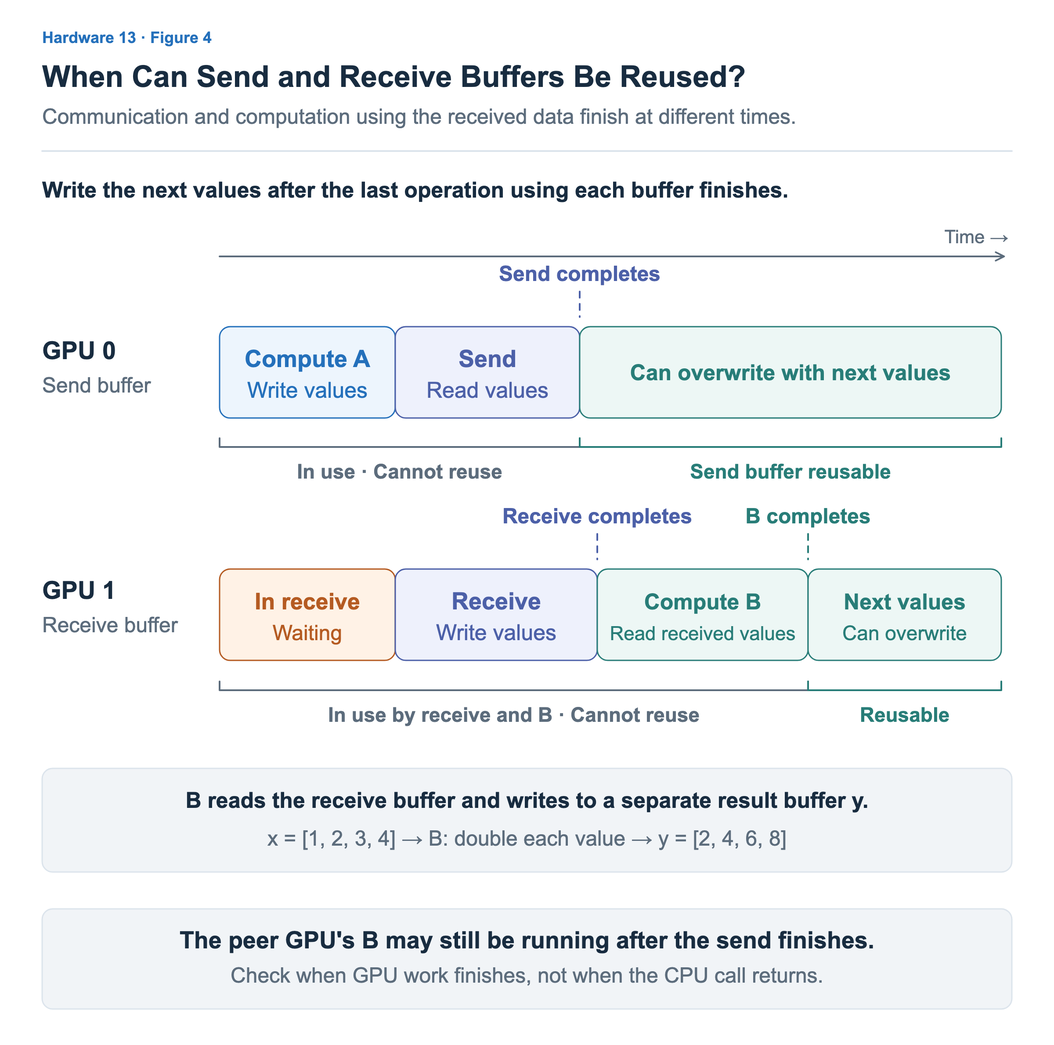
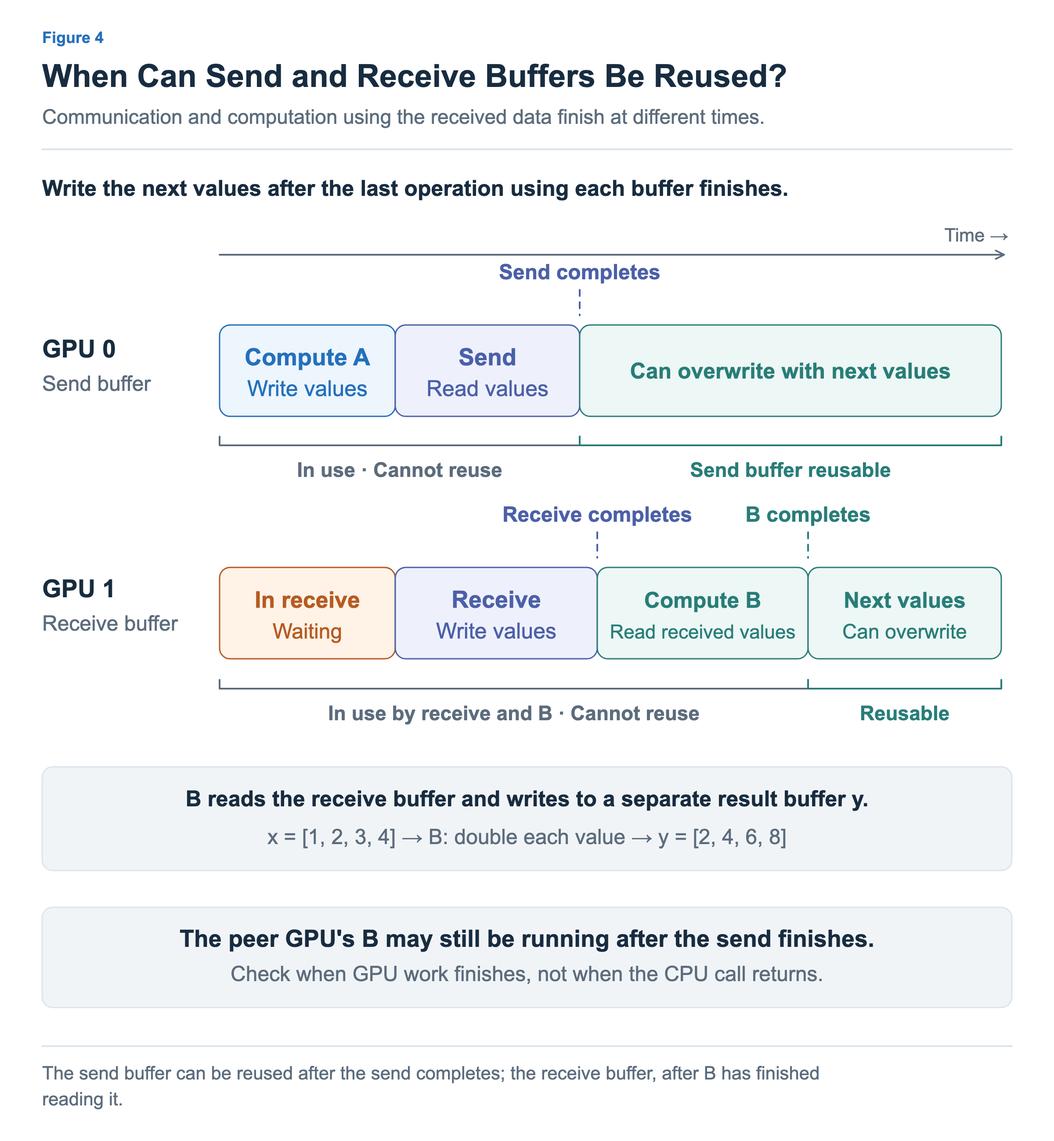
Port gpu-communication-basics figures to the shared visualization module
Figures are regenerated from src/data/figures/gpu-communication-basics with the standard frame
and in-image captions. Figures had no captions; new ko/en captions are drafted from the figures' own notes and the article text (please review).

diff --git a/src/data/figures/gpu-communication-basics/01-peers-and-buffers.ts b/src/data/figures/gpu-communication-basics/01-peers-and-buffers.ts
@@ -1,0 +1,73 @@
+import {C,Panel,markerUrl,type FigureSpec,type Locale} from '@llm-systems/viz';
+// Ported from the published SVG with its original geometry; replace parts with shared primitives when editing.
+export default {
+  articleId:"gpu-communication-basics",figureId:"01-peers-and-buffers",number:"01-peers-and-buffers",
+  layout:'wide',screens:['desktop'],
+  eyebrow:["그림 1","Figure 1"],
+  title:["통신할 상대와 받을 공간 준비하기","Preparing Peers and Receive Space"],
+  subtitle:["CPU는 통신 그룹과 버퍼를 준비하고, 데이터는 GPU 메모리에 놓입니다.","The CPU prepares the group and buffers; the data lives in GPU memory."],
+  alt:["같은 서버의 프로세스 0과 1이 GPU 0과 1을 각각 맡는다. 두 CPU 코드가 같은 통신 그룹의 rank 0과 1로 통신 객체를 준비하고 GPU 버퍼 확보를 요청한다. GPU 0의 A가 만든 [1,2,3,4]를 GPU 1 수신 버퍼로 전달한다. 수신 전에는 공간만 있고 수신 완료 뒤 값이 유효하다. GPU 0 원본은 유지된다. 상대 rank, 원소 수 4, 자료형 float32를 맞춘다. 점선은 공간 확보 요청이고 실선은 논리적인 데이터 전달이다.","Two processes on the same server handle GPUs 0 and 1. CPU code prepares communicators as ranks 0 and 1 in the same group and requests GPU buffers. A produces [1,2,3,4] on GPU 0 and the data is transferred into GPU 1 receive memory. Before receiving, only space exists; after completion, the input is ready for B. The original stays on GPU 0. The peers match four float32 elements. Dashed arrows are allocation requests and the solid arrow is logical data transfer."],
+  caption:["점선은 공간 확보 요청, 실선은 논리적인 데이터 전달입니다. 송신 뒤에도 GPU 0의 원본은 유지됩니다.","Dashed lines request buffer space; solid lines show logical data transfer. GPU 0 keeps its original after sending."],
+  sources:[],
+  panels(locale:Locale){
+    const p=new Panel(locale,null,934,1104,[48,208]);
+    p.el("rect",{x:48,y:205,width:1104,height:54,rx:12,fill:C.grayFill,stroke:C.line,"stroke-width":1.5});
+    p.el('text',{x:600,y:241,fill:C.ink,"font-size":25,"font-weight":600,"text-anchor":"middle"},["한 서버의 GPU 두 개를 두 프로세스가 하나씩 담당합니다","Two processes each handle one GPU on the same server"]);
+    p.el("rect",{x:48,y:282,width:520,height:210,rx:12,fill:C.grayFill,stroke:C.line,"stroke-width":1.5});
+    p.el('text',{x:76,y:323,fill:C.ink,"font-size":27,"font-weight":700,"text-anchor":"start"},["프로세스 0 · CPU 코드","Process 0 · CPU code"]);
+    p.el('text',{x:76,y:367,fill:C.ink,"font-size":24,"font-weight":400,"text-anchor":"start"},["GPU 0 담당 · 그룹 안 번호 rank 0","GPU 0 · Rank 0 in this group"]);
+    p.el('text',{x:76,y:411,fill:C.muted,"font-size":23,"font-weight":400,"text-anchor":"start"},["같은 그룹의 통신 객체 준비: comm₀","Prepare communicator: comm₀"]);
+    p.el('text',{x:76,y:454,fill:C.ink,"font-size":24,"font-weight":600,"text-anchor":"start"},["GPU 버퍼 확보 요청","Request GPU buffer allocation"]);
+    p.el("path",{d:"M308,501 V559",fill:"none",stroke:C.muted,"stroke-width":2,"marker-end":markerUrl(C.muted),"stroke-dasharray":"7 7"});
+    p.el('text',{x:328,y:540,fill:C.muted,"font-size":21,"font-weight":400,"text-anchor":"start"},["공간 확보 요청","Allocate space"]);
+    p.el("rect",{x:632,y:282,width:520,height:210,rx:12,fill:C.grayFill,stroke:C.line,"stroke-width":1.5});
+    p.el('text',{x:660,y:323,fill:C.ink,"font-size":27,"font-weight":700,"text-anchor":"start"},["프로세스 1 · CPU 코드","Process 1 · CPU code"]);
+    p.el('text',{x:660,y:367,fill:C.ink,"font-size":24,"font-weight":400,"text-anchor":"start"},["GPU 1 담당 · 그룹 안 번호 rank 1","GPU 1 · Rank 1 in this group"]);
+    p.el('text',{x:660,y:411,fill:C.muted,"font-size":23,"font-weight":400,"text-anchor":"start"},["같은 그룹의 통신 객체 준비: comm₁","Prepare communicator: comm₁"]);
+    p.el('text',{x:660,y:454,fill:C.ink,"font-size":24,"font-weight":600,"text-anchor":"start"},["GPU 버퍼 확보 요청","Request GPU buffer allocation"]);
+    p.el("path",{d:"M892,501 V559",fill:"none",stroke:C.muted,"stroke-width":2,"marker-end":markerUrl(C.muted),"stroke-dasharray":"7 7"});
+    p.el('text',{x:912,y:540,fill:C.muted,"font-size":21,"font-weight":400,"text-anchor":"start"},["공간 확보 요청","Allocate space"]);
+    p.el("rect",{x:48,y:576,width:520,height:420,rx:12,fill:C.paper,stroke:C.line,"stroke-width":1.5});
+    p.el('text',{x:76,y:620,fill:C.ink,"font-size":28,"font-weight":700,"text-anchor":"start"},["GPU 0 · 송신 버퍼","GPU 0 · Send buffer"]);
+    p.el("rect",{x:632,y:576,width:520,height:420,rx:12,fill:C.paper,stroke:C.line,"stroke-width":1.5});
+    p.el('text',{x:660,y:620,fill:C.ink,"font-size":28,"font-weight":700,"text-anchor":"start"},["GPU 1 · 수신 버퍼","GPU 1 · Receive buffer"]);
+    p.el('text',{x:112,y:668,fill:C.blue,"font-size":25,"font-weight":600,"text-anchor":"start"},["계산 A가 만든 x","x produced by A"]);
+    p.el("rect",{x:112,y:686,width:76,height:62,rx:12,fill:C.blueFill,stroke:C.blue,"stroke-width":1.5});
+    p.el('text',{x:150,y:727,fill:C.blue,"font-size":29,"font-weight":600,"text-anchor":"middle"},"1");
+    p.el("rect",{x:200,y:686,width:76,height:62,rx:12,fill:C.blueFill,stroke:C.blue,"stroke-width":1.5});
+    p.el('text',{x:238,y:727,fill:C.blue,"font-size":29,"font-weight":600,"text-anchor":"middle"},"2");
+    p.el("rect",{x:288,y:686,width:76,height:62,rx:12,fill:C.blueFill,stroke:C.blue,"stroke-width":1.5});
+    p.el('text',{x:326,y:727,fill:C.blue,"font-size":29,"font-weight":600,"text-anchor":"middle"},"3");
+    p.el("rect",{x:376,y:686,width:76,height:62,rx:12,fill:C.blueFill,stroke:C.blue,"stroke-width":1.5});
+    p.el('text',{x:414,y:727,fill:C.blue,"font-size":29,"font-weight":600,"text-anchor":"middle"},"4");
+    p.el('text',{x:672,y:668,fill:C.muted,"font-size":(locale==='ko'?25:24),"font-weight":600,"text-anchor":"start"},["수신 전: 공간만 확보","Before receive: space only"]);
+    p.el("rect",{x:672,y:686,width:76,height:62,rx:12,fill:C.grayFill,stroke:C.muted,"stroke-width":1.5});
+    p.el("rect",{x:760,y:686,width:76,height:62,rx:12,fill:C.grayFill,stroke:C.muted,"stroke-width":1.5});
+    p.el("rect",{x:848,y:686,width:76,height:62,rx:12,fill:C.grayFill,stroke:C.muted,"stroke-width":1.5});
+    p.el("rect",{x:936,y:686,width:76,height:62,rx:12,fill:C.grayFill,stroke:C.muted,"stroke-width":1.5});
+    p.el('text',{x:112,y:825,fill:C.blue,"font-size":(locale==='ko'?25:24),"font-weight":600,"text-anchor":"start"},["전달 뒤에도 원본 유지","Original stays after transfer"]);
+    p.el("rect",{x:112,y:845,width:76,height:62,rx:12,fill:C.blueFill,stroke:C.blue,"stroke-width":1.5});
+    p.el('text',{x:150,y:886,fill:C.blue,"font-size":29,"font-weight":600,"text-anchor":"middle"},"1");
+    p.el("rect",{x:200,y:845,width:76,height:62,rx:12,fill:C.blueFill,stroke:C.blue,"stroke-width":1.5});
+    p.el('text',{x:238,y:886,fill:C.blue,"font-size":29,"font-weight":600,"text-anchor":"middle"},"2");
+    p.el("rect",{x:288,y:845,width:76,height:62,rx:12,fill:C.blueFill,stroke:C.blue,"stroke-width":1.5});
+    p.el('text',{x:326,y:886,fill:C.blue,"font-size":29,"font-weight":600,"text-anchor":"middle"},"3");
+    p.el("rect",{x:376,y:845,width:76,height:62,rx:12,fill:C.blueFill,stroke:C.blue,"stroke-width":1.5});
+    p.el('text',{x:414,y:886,fill:C.blue,"font-size":29,"font-weight":600,"text-anchor":"middle"},"4");
+    p.el('text',{x:672,y:825,fill:C.indigo,"font-size":(locale==='ko'?25:24),"font-weight":600,"text-anchor":"start"},["수신 완료: x 도착","Receive complete: x arrives"]);
+    p.el("rect",{x:672,y:845,width:76,height:62,rx:12,fill:C.indigoFill,stroke:C.indigo,"stroke-width":1.5});
+    p.el('text',{x:710,y:886,fill:C.indigo,"font-size":29,"font-weight":600,"text-anchor":"middle"},"1");
+    p.el("rect",{x:760,y:845,width:76,height:62,rx:12,fill:C.indigoFill,stroke:C.indigo,"stroke-width":1.5});
+    p.el('text',{x:798,y:886,fill:C.indigo,"font-size":29,"font-weight":600,"text-anchor":"middle"},"2");
+    p.el("rect",{x:848,y:845,width:76,height:62,rx:12,fill:C.indigoFill,stroke:C.indigo,"stroke-width":1.5});
+    p.el('text',{x:886,y:886,fill:C.indigo,"font-size":29,"font-weight":600,"text-anchor":"middle"},"3");
+    p.el("rect",{x:936,y:845,width:76,height:62,rx:12,fill:C.indigoFill,stroke:C.indigo,"stroke-width":1.5});
+    p.el('text',{x:974,y:886,fill:C.indigo,"font-size":29,"font-weight":600,"text-anchor":"middle"},"4");
+    p.el("path",{d:"M458,749 H596 V876 H664",fill:"none",stroke:C.indigo,"stroke-width":2.5,"marker-end":markerUrl(C.indigo)});
+    p.el('text',{x:892,y:956,fill:C.indigo,"font-size":24,"font-weight":600,"text-anchor":"middle"},["B가 읽을 입력 준비","Input ready for B to read"]);
+    p.el("rect",{x:48,y:1032,width:1104,height:102,rx:12,fill:C.indigoFill,stroke:C.line,"stroke-width":1.5});
+    p.el('text',{x:600,y:1073,fill:C.indigo,"font-size":25,"font-weight":600,"text-anchor":"middle"},["송신 상대: rank 1  ·  수신 상대: rank 0","Send to rank 1  ·  Receive from rank 0"]);
+    p.el('text',{x:600,y:1110,fill:C.muted,"font-size":24,"font-weight":400,"text-anchor":"middle"},["양쪽이 맞추는 내용: 원소 4개 · 자료형 float32","Both sides match: 4 elements · float32"]);
+    return [p];
+  },
+} satisfies FigureSpec;

diff --git a/src/data/figures/gpu-communication-basics/02-send-receive-execution.ts b/src/data/figures/gpu-communication-basics/02-send-receive-execution.ts
@@ -1,0 +1,65 @@
+import {C,Panel,markerUrl,type FigureSpec,type Locale} from '@llm-systems/viz';
+// Ported from the published SVG with its original geometry; replace parts with shared primitives when editing.
+export default {
+  articleId:"gpu-communication-basics",figureId:"02-send-receive-execution",number:"02-send-receive-execution",
+  layout:'wide',screens:['desktop'],
+  eyebrow:["그림 2","Figure 2"],
+  title:["계산 A의 결과가 계산 B에 도착하기까지","From the Result of A to Computation B"],
+  subtitle:["CPU의 등록 순서와 두 GPU에서 실제로 진행되는 작업을 구별합니다.","Distinguish CPU submission order from actual work on the two GPUs."],
+  alt:["상단 CPU 프로세스 0은 GPU 0의 스트림 S0에 A와 송신을, 프로세스 1은 GPU 1의 스트림 S1에 수신과 B를 등록한다. 상단은 시간축이 아니다. 하단 공통 시간축에서 GPU 1은 수신 작업을 먼저 시작해 기다린다. GPU 0의 A가 끝난 뒤 송신과 데이터 수신이 함께 진행된다. 수신 완료 뒤 B가 실행된다. 송신과 수신은 같은 데이터 전달에 참여한다. CPU 호출 반환은 GPU 수신 완료나 B 완료와 다르다.","The top shows CPU submission order, not a timeline. Process 0 submits A and send in GPU 0 stream S0; process 1 submits receive and B in GPU 1 stream S1. Below, GPU 1 receive starts early and waits until A produces x. Send and receive then transfer the data, and B starts after receive completion. CPU return does not guarantee GPU completion. Each GPU stream and matching NCCL operations connect the execution order."],
+  caption:["아래 시간축은 GPU 1의 수신 작업이 먼저 시작된 경우입니다. 송신과 수신은 같은 데이터 전달에 함께 참여합니다.","The lower timeline shows GPU 1’s receive starting first. The send and receive take part in the same data transfer."],
+  sources:[],
+  panels(locale:Locale){
+    const p=new Panel(locale,null,1104,1104,[48,208]);
+    p.el('text',{x:48,y:228,fill:C.ink,"font-size":28,"font-weight":700,"text-anchor":"start"},["CPU: 각 프로세스가 맡은 GPU에 작업 등록","CPU: Each process submits work to its GPU"]);
+    p.el('text',{x:48,y:268,fill:C.muted,"font-size":23,"font-weight":400,"text-anchor":"start"},["위쪽은 등록 순서이며, 두 CPU 호출이 같은 시각일 필요는 없습니다.","Submission order above; the two CPU calls need not happen at the same time."]);
+    p.el("rect",{x:48,y:298,width:1104,height:270,rx:12,fill:C.grayFill,stroke:C.line,"stroke-width":1.5});
+    p.el('text',{x:76,y:356,fill:C.ink,"font-size":26,"font-weight":600,"text-anchor":"start"},["프로세스 0","Process 0"]);
+    p.el('text',{x:76,y:392,fill:C.muted,"font-size":23,"font-weight":400,"text-anchor":"start"},"GPU 0 · S₀");
+    p.el('text',{x:76,y:490,fill:C.ink,"font-size":26,"font-weight":600,"text-anchor":"start"},["프로세스 1","Process 1"]);
+    p.el('text',{x:76,y:526,fill:C.muted,"font-size":23,"font-weight":400,"text-anchor":"start"},"GPU 1 · S₁");
+    p.el("rect",{x:292,y:318,width:324,height:94,rx:12,fill:C.blueFill,stroke:C.blue,"stroke-width":1.5});
+    p.el('text',{x:454,y:374,fill:C.blue,"font-size":27,"font-weight":600,"text-anchor":"middle"},["계산 A 등록","Submit A"]);
+    p.el("path",{d:"M626,365 H662",fill:"none",stroke:C.muted,"stroke-width":2,"marker-end":markerUrl(C.muted)});
+    p.el("rect",{x:674,y:318,width:430,height:94,rx:12,fill:C.indigoFill,stroke:C.indigo,"stroke-width":1.5});
+    p.el('text',{x:889,y:359,fill:C.indigo,"font-size":27,"font-weight":600,"text-anchor":"middle"},["송신 등록","Submit send"]);
+    p.el('text',{x:889,y:394,fill:C.indigo,"font-size":25,"font-weight":400,"text-anchor":"middle"},"ncclSend(...)");
+    p.el("rect",{x:292,y:452,width:324,height:94,rx:12,fill:C.indigoFill,stroke:C.indigo,"stroke-width":1.5});
+    p.el('text',{x:454,y:493,fill:C.indigo,"font-size":27,"font-weight":600,"text-anchor":"middle"},["수신 등록","Submit receive"]);
+    p.el('text',{x:454,y:528,fill:C.indigo,"font-size":25,"font-weight":400,"text-anchor":"middle"},"ncclRecv(...)");
+    p.el("path",{d:"M626,499 H662",fill:"none",stroke:C.muted,"stroke-width":2,"marker-end":markerUrl(C.muted)});
+    p.el("rect",{x:674,y:452,width:430,height:94,rx:12,fill:C.tealFill,stroke:C.teal,"stroke-width":1.5});
+    p.el('text',{x:889,y:508,fill:C.teal,"font-size":27,"font-weight":600,"text-anchor":"middle"},["계산 B 등록","Submit B"]);
+    p.el('text',{x:600,y:615,fill:C.ink,"font-size":(locale==='ko'?25:24),"font-weight":600,"text-anchor":"middle"},["호출이 반환되어도 GPU의 수신이나 계산이 끝난 것은 아닙니다.","A returned call does not mean the GPU receive or computation has finished."]);
+    p.el('text',{x:48,y:697,fill:C.ink,"font-size":(locale==='ko'?28:27),"font-weight":700,"text-anchor":"start"},["GPU: 각 스트림의 순서와 송수신을 연결해 실행","GPU: Connect stream order with send and receive"]);
+    p.el("path",{d:"M250,747 H1142",fill:"none",stroke:C.muted,"stroke-width":2,"marker-end":markerUrl(C.muted)});
+    p.el('text',{x:1148,y:732,fill:C.muted,"font-size":21,"font-weight":400,"text-anchor":"end"},["시간 →","Time →"]);
+    p.el('text',{x:48,y:838,fill:C.ink,"font-size":28,"font-weight":700,"text-anchor":"start"},"GPU 0");
+    p.el('text',{x:48,y:875,fill:C.muted,"font-size":23,"font-weight":400,"text-anchor":"start"},["스트림 S₀","Stream S₀"]);
+    p.el("rect",{x:250,y:803,width:320,height:88,rx:12,fill:C.blueFill,stroke:C.blue,"stroke-width":1.5});
+    p.el('text',{x:410,y:856,fill:C.blue,"font-size":29,"font-weight":600,"text-anchor":"middle"},["계산 A","Compute A"]);
+    p.el("rect",{x:570,y:803,width:305,height:88,rx:12,fill:C.indigoFill,stroke:C.indigo,"stroke-width":1.5});
+    p.el('text',{x:722.5,y:856,fill:C.indigo,"font-size":29,"font-weight":600,"text-anchor":"middle"},["송신","Send"]);
+    p.el('text',{x:570,y:784,fill:C.blue,"font-size":22,"font-weight":600,"text-anchor":"middle"},["A 완료","A completes"]);
+    p.el('text',{x:875,y:784,fill:C.indigo,"font-size":22,"font-weight":600,"text-anchor":"middle"},["송신 완료","Send completes"]);
+    p.el("path",{d:"M600,902 V965",fill:"none",stroke:C.indigo,"stroke-width":2.5,"marker-end":markerUrl(C.indigo)});
+    p.el('text',{x:632,y:942,fill:C.indigo,"font-size":24,"font-weight":600,"text-anchor":"start"},["NCCL로 데이터 전달","Data transfer via NCCL"]);
+    p.el('text',{x:48,y:1025,fill:C.ink,"font-size":28,"font-weight":700,"text-anchor":"start"},"GPU 1");
+    p.el('text',{x:48,y:1062,fill:C.muted,"font-size":23,"font-weight":400,"text-anchor":"start"},["스트림 S₁","Stream S₁"]);
+    p.el("rect",{x:250,y:985,width:320,height:88,rx:12,fill:C.orangeFill,stroke:C.orange,"stroke-width":1.5});
+    p.el('text',{x:410,y:1038,fill:C.orange,"font-size":27,"font-weight":600,"text-anchor":"middle"},["수신에서 대기","Wait in receive"]);
+    p.el("rect",{x:570,y:985,width:305,height:88,rx:12,fill:C.indigoFill,stroke:C.indigo,"stroke-width":1.5});
+    p.el('text',{x:722.5,y:1038,fill:C.indigo,"font-size":27,"font-weight":600,"text-anchor":"middle"},["데이터 수신","Receive data"]);
+    p.el("rect",{x:875,y:985,width:255,height:88,rx:12,fill:C.tealFill,stroke:C.teal,"stroke-width":1.5});
+    p.el('text',{x:1002.5,y:1038,fill:C.teal,"font-size":(locale==='ko'?29:25),"font-weight":600,"text-anchor":"middle"},["계산 B","Compute B"]);
+    p.el("path",{d:"M250,1086 v10 H875 v-10",fill:"none",stroke:C.indigo,"stroke-width":2});
+    p.el('text',{x:562.5,y:1132,fill:C.indigo,"font-size":23,"font-weight":600,"text-anchor":"middle"},["하나의 수신 작업","One receive operation"]);
+    p.el("path",{d:"M875,1084 V1145",fill:"none",stroke:C.indigo,"stroke-width":2,"stroke-dasharray":"7 7"});
+    p.el('text',{x:888,y:(locale==='ko'?1125:1168),fill:C.indigo,"font-size":22,"font-weight":600,"text-anchor":"start"},["수신 완료","Receive completes"]);
+    p.el('text',{x:1130,y:1125,fill:C.teal,"font-size":22,"font-weight":600,"text-anchor":"end"},["B 완료","B completes"]);
+    p.el("rect",{x:48,y:1190,width:1104,height:114,rx:12,fill:C.grayFill,stroke:C.line,"stroke-width":1.5});
+    p.el('text',{x:600,y:1235,fill:C.ink,"font-size":27,"font-weight":600,"text-anchor":"middle"},["GPU 0의 순서 → NCCL 송수신 → GPU 1의 순서","GPU 0 order → NCCL send/receive → GPU 1 order"]);
+    p.el('text',{x:600,y:1274,fill:C.muted,"font-size":24,"font-weight":400,"text-anchor":"middle"},["수신 완료 뒤에 B가 실행됩니다.","B executes after the receive completes."]);
+    return [p];
+  },
+} satisfies FigureSpec;

diff --git a/src/data/figures/gpu-communication-basics/04-buffer-reuse.ts b/src/data/figures/gpu-communication-basics/04-buffer-reuse.ts
@@ -1,0 +1,63 @@
+import {C,Panel,markerUrl,type FigureSpec,type Locale} from '@llm-systems/viz';
+// Ported from the published SVG with its original geometry; replace parts with shared primitives when editing.
+export default {
+  articleId:"gpu-communication-basics",figureId:"04-buffer-reuse",number:"04-buffer-reuse",
+  layout:'wide',screens:['desktop'],
+  eyebrow:["그림 4","Figure 4"],
+  title:["송수신 버퍼는 언제 다시 써도 될까?","When Can Send and Receive Buffers Be Reused?"],
+  subtitle:["통신이 끝난 시점과 받은 데이터를 사용하는 계산이 끝난 시점은 다릅니다.","Communication and computation using the received data finish at different times."],
+  alt:["공통 시간축에서 GPU 0 송신 버퍼는 A의 값 작성과 송신의 읽기가 끝나면 다음 값으로 덮어쓸 수 있다. GPU 1 수신 버퍼는 수신이 값을 쓰고 B가 그 값을 읽는 동안 유지해야 하며 B 완료 뒤 재사용할 수 있다. GPU 0 송신 완료 뒤에도 GPU 1의 B가 진행 중일 수 있다. B는 수신 버퍼 x를 읽고 별도 y에 [2,4,6,8]을 출력한다. 표시한 완료는 CPU API 반환이 아닌 GPU 작업 완료다.","On a shared time axis GPU 0 send memory is written by A and read by the send. It can be overwritten after send completion. GPU 1 receive memory must remain available while receive writes it and B reads it, and can be reused after B finishes. Send completion does not imply peer B completion. B reads x and writes [2,4,6,8] into a separate y buffer. Completion markers refer to GPU work, not CPU API return."],
+  caption:["송신 버퍼는 송신 완료 뒤, 수신 버퍼는 B가 값을 모두 읽은 뒤 다시 쓸 수 있습니다.","The send buffer can be reused after the send completes; the receive buffer, after B has finished reading it."],
+  sources:[],
+  panels(locale:Locale){
+    const p=new Panel(locale,null,949,1104,[48,208]);
+    p.el('text',{x:48,y:225,fill:C.ink,"font-size":(locale==='ko'?26:25),"font-weight":600,"text-anchor":"start"},["각 버퍼를 마지막으로 사용하는 작업이 끝난 뒤 다음 값을 씁니다.","Write the next values after the last operation using each buffer finishes."]);
+    p.el("path",{d:"M250,292 H1142",fill:"none",stroke:C.muted,"stroke-width":2,"marker-end":markerUrl(C.muted)});
+    p.el('text',{x:1148,y:277,fill:C.muted,"font-size":21,"font-weight":400,"text-anchor":"end"},["시간 →","Time →"]);
+    p.el('text',{x:48,y:409,fill:C.ink,"font-size":28,"font-weight":700,"text-anchor":"start"},"GPU 0");
+    p.el('text',{x:48,y:447,fill:C.muted,"font-size":24,"font-weight":400,"text-anchor":"start"},["송신 버퍼","Send buffer"]);
+    p.el("rect",{x:250,y:372,width:200,height:104,rx:12,fill:C.blueFill,stroke:C.blue,"stroke-width":1.5});
+    p.el('text',{x:350,y:418,fill:C.blue,"font-size":27,"font-weight":600,"text-anchor":"middle"},["계산 A","Compute A"]);
+    p.el('text',{x:350,y:453,fill:C.blue,"font-size":25,"font-weight":400,"text-anchor":"middle"},["값 작성","Write values"]);
+    p.el("rect",{x:450,y:372,width:210,height:104,rx:12,fill:C.indigoFill,stroke:C.indigo,"stroke-width":1.5});
+    p.el('text',{x:555,y:418,fill:C.indigo,"font-size":27,"font-weight":600,"text-anchor":"middle"},["송신","Send"]);
+    p.el('text',{x:555,y:453,fill:C.indigo,"font-size":25,"font-weight":400,"text-anchor":"middle"},["값 읽기","Read values"]);
+    p.el("rect",{x:660,y:372,width:480,height:104,rx:12,fill:C.tealFill,stroke:C.teal,"stroke-width":1.5});
+    p.el('text',{x:900,y:433,fill:C.teal,"font-size":(locale==='ko'?27:25),"font-weight":600,"text-anchor":"middle"},["다음 값으로 덮어쓰기 가능","Can overwrite with next values"]);
+    p.el("path",{d:"M660,332 V361",fill:"none",stroke:C.indigo,"stroke-width":2,"stroke-dasharray":"7 7"});
+    p.el('text',{x:660,y:320,fill:C.indigo,"font-size":24,"font-weight":600,"text-anchor":"middle"},["송신 완료","Send completes"]);
+    p.el("path",{d:"M250,499 v10 H660 v-10",fill:"none",stroke:C.muted,"stroke-width":2});
+    p.el('text',{x:455,y:545,fill:C.muted,"font-size":23,"font-weight":600,"text-anchor":"middle"},["사용 중 · 재사용 불가","In use · Cannot reuse"]);
+    p.el("path",{d:"M660,499 v10 H1140 v-10",fill:"none",stroke:C.teal,"stroke-width":2});
+    p.el('text',{x:900,y:545,fill:C.teal,"font-size":23,"font-weight":600,"text-anchor":"middle"},["송신 버퍼 재사용 가능","Send buffer reusable"]);
+    p.el('text',{x:48,y:682,fill:C.ink,"font-size":28,"font-weight":700,"text-anchor":"start"},"GPU 1");
+    p.el('text',{x:48,y:720,fill:C.muted,"font-size":24,"font-weight":400,"text-anchor":"start"},["수신 버퍼","Receive buffer"]);
+    p.el("rect",{x:250,y:648,width:200,height:104,rx:12,fill:C.orangeFill,stroke:C.orange,"stroke-width":1.5});
+    p.el('text',{x:350,y:694,fill:C.orange,"font-size":26,"font-weight":600,"text-anchor":"middle"},["수신에서","In receive"]);
+    p.el('text',{x:350,y:729,fill:C.orange,"font-size":24,"font-weight":400,"text-anchor":"middle"},["대기","Waiting"]);
+    p.el("rect",{x:450,y:648,width:230,height:104,rx:12,fill:C.indigoFill,stroke:C.indigo,"stroke-width":1.5});
+    p.el('text',{x:565,y:694,fill:C.indigo,"font-size":27,"font-weight":600,"text-anchor":"middle"},["수신","Receive"]);
+    p.el('text',{x:565,y:729,fill:C.indigo,"font-size":25,"font-weight":400,"text-anchor":"middle"},["값 쓰기","Write values"]);
+    p.el("rect",{x:680,y:648,width:240,height:104,rx:12,fill:C.tealFill,stroke:C.teal,"stroke-width":1.5});
+    p.el('text',{x:800,y:694,fill:C.teal,"font-size":(locale==='ko'?27:25),"font-weight":600,"text-anchor":"middle"},["계산 B","Compute B"]);
+    p.el('text',{x:800,y:729,fill:C.teal,"font-size":(locale==='ko'?25:22),"font-weight":400,"text-anchor":"middle"},["수신값 읽기","Read received values"]);
+    p.el("rect",{x:920,y:648,width:220,height:104,rx:12,fill:C.tealFill,stroke:C.teal,"stroke-width":1.5});
+    p.el('text',{x:1030,y:694,fill:C.teal,"font-size":25,"font-weight":600,"text-anchor":"middle"},["다음 값으로","Next values"]);
+    p.el('text',{x:1030,y:729,fill:C.teal,"font-size":23,"font-weight":400,"text-anchor":"middle"},["덮어쓰기 가능","Can overwrite"]);
+    p.el("path",{d:"M680,608 V637",fill:"none",stroke:C.indigo,"stroke-width":2,"stroke-dasharray":"7 7"});
+    p.el('text',{x:680,y:596,fill:C.indigo,"font-size":24,"font-weight":600,"text-anchor":"middle"},["수신 완료","Receive completes"]);
+    p.el("path",{d:"M920,608 V637",fill:"none",stroke:C.teal,"stroke-width":2,"stroke-dasharray":"7 7"});
+    p.el('text',{x:920,y:596,fill:C.teal,"font-size":24,"font-weight":600,"text-anchor":"middle"},["B 완료","B completes"]);
+    p.el("path",{d:"M250,776 v10 H920 v-10",fill:"none",stroke:C.muted,"stroke-width":2});
+    p.el('text',{x:585,y:822,fill:C.muted,"font-size":23,"font-weight":600,"text-anchor":"middle"},["수신과 계산 B가 사용 중 · 재사용 불가","In use by receive and B · Cannot reuse"]);
+    p.el("path",{d:"M920,776 v10 H1140 v-10",fill:"none",stroke:C.teal,"stroke-width":2});
+    p.el('text',{x:1030,y:822,fill:C.teal,"font-size":23,"font-weight":600,"text-anchor":"middle"},["재사용 가능","Reusable"]);
+    p.el("rect",{x:48,y:875,width:1104,height:118,rx:12,fill:C.grayFill,stroke:C.line,"stroke-width":1.5});
+    p.el('text',{x:600,y:920,fill:C.ink,"font-size":(locale==='ko'?26:25),"font-weight":600,"text-anchor":"middle"},["B는 수신 버퍼를 읽고, 별도 결과 버퍼 y에 씁니다.","B reads the receive buffer and writes to a separate result buffer y."]);
+    p.el('text',{x:600,y:963,fill:C.muted,"font-size":24,"font-weight":400,"text-anchor":"middle"},["x = [1, 2, 3, 4]  →  B: 두 배로 계산  →  y = [2, 4, 6, 8]","x = [1, 2, 3, 4]  →  B: double each value  →  y = [2, 4, 6, 8]"]);
+    p.el("rect",{x:48,y:1035,width:1104,height:114,rx:12,fill:C.grayFill,stroke:C.line,"stroke-width":1.5});
+    p.el('text',{x:600,y:1080,fill:C.ink,"font-size":27,"font-weight":600,"text-anchor":"middle"},["송신이 끝나도 상대 GPU의 계산 B는 진행 중일 수 있습니다.","The peer GPU's B may still be running after the send finishes."]);
+    p.el('text',{x:600,y:1119,fill:C.muted,"font-size":24,"font-weight":400,"text-anchor":"middle"},["호출 반환이 아니라, GPU에서 해당 작업이 끝난 시점을 봅니다.","Check when GPU work finishes, not when the CPU call returns."]);
+    return [p];
+  },
+} satisfies FigureSpec;

diff --git a/src/data/figures/gpu-communication-basics/03-communication-and-independent-work.ts b/src/data/figures/gpu-communication-basics/03-communication-and-independent-work.ts
@@ -1,0 +1,57 @@
+import {C,Panel,markerUrl,type FigureSpec,type Locale} from '@llm-systems/viz';
+// Ported from the published SVG with its original geometry; replace parts with shared primitives when editing.
+export default {
+  articleId:"gpu-communication-basics",figureId:"03-communication-and-independent-work",number:"03-communication-and-independent-work",
+  layout:'wide',screens:['desktop'],
+  eyebrow:["그림 3","Figure 3"],
+  title:["수신을 기다리는 동안 독립적인 계산하기","Independent Work While Waiting for Data"],
+  subtitle:["필요한 데이터는 기다리되, 그 데이터와 무관한 계산은 함께 진행할 수 있습니다.","Wait for required data while independent computation can proceed alongside it."],
+  alt:["A 완료 이후 GPU 1의 두 실행을 같은 시간 척도로 비교한다. 순차 실행은 수신, C, B 순이다. 동시 진행에서는 통신 스트림의 수신과 계산 스트림의 독립적인 C가 겹친다. 수신 뒤 이벤트 E를 기록하고 계산 스트림은 C 뒤 E 완료를 기다린 후 B를 실행한다. 두 그림의 수신, C, B 길이는 각각 같으며 전체 완료는 모든 B와 C가 끝난 때다. 하드웨어와 자원이 동시 실행을 허용하는 경우를 보여준다.","Two GPU 1 executions after A completes are compared on the same time scale. In one stream receive, C and B run sequentially. In two streams the receive and independent C overlap. Event E is recorded after the receive. The compute stream waits for E after C, then executes B. Each transfer and computation has the same length in both cases. Overall completion includes both B and C. This example assumes hardware and resources allow overlap."],
+  caption:["두 경우의 수신·C·B 길이는 같습니다. 하드웨어와 자원이 동시 실행을 허용하는 경우입니다.","Receive, C, and B have the same lengths in both cases; this assumes the hardware and resources allow concurrent execution."],
+  sources:[],
+  panels(locale:Locale){
+    const p=new Panel(locale,null,1102,1104,[48,208]);
+    p.el("rect",{x:48,y:205,width:1104,height:108,rx:12,fill:C.grayFill,stroke:C.line,"stroke-width":1.5});
+    p.el('text',{x:600,y:247,fill:C.ink,"font-size":26,"font-weight":600,"text-anchor":"middle"},["A 완료 이후 · 같은 데이터 전달과 같은 계산 B·C","After A completes · Same transfer and computations B and C"]);
+    p.el('text',{x:600,y:287,fill:C.muted,"font-size":23,"font-weight":400,"text-anchor":"middle"},["C는 x와 무관한 계산 · 두 스트림이 함께 실행될 자원이 있는 경우","C is independent of x · Resources allow both streams to run concurrently"]);
+    p.el('text',{x:48,y:369,fill:C.ink,"font-size":28,"font-weight":700,"text-anchor":"start"},["한 스트림에 순서대로 배치","Sequential operations in one stream"]);
+    p.el("path",{d:"M250,415 H1142",fill:"none",stroke:C.muted,"stroke-width":2,"marker-end":markerUrl(C.muted)});
+    p.el('text',{x:1148,y:400,fill:C.muted,"font-size":21,"font-weight":400,"text-anchor":"end"},["시간 →","Time →"]);
+    p.el('text',{x:48,y:492,fill:C.ink,"font-size":27,"font-weight":700,"text-anchor":"start"},"GPU 1");
+    p.el('text',{x:48,y:528,fill:C.muted,"font-size":23,"font-weight":400,"text-anchor":"start"},["스트림 S","Stream S"]);
+    p.el("rect",{x:250,y:457,width:350,height:90,rx:12,fill:C.indigoFill,stroke:C.indigo,"stroke-width":1.5});
+    p.el('text',{x:425,y:511,fill:C.indigo,"font-size":28,"font-weight":600,"text-anchor":"middle"},["수신","Receive"]);
+    p.el("rect",{x:600,y:457,width:190,height:90,rx:12,fill:C.purpleFill,stroke:C.purple,"stroke-width":1.5});
+    p.el('text',{x:695,y:511,fill:C.purple,"font-size":27,"font-weight":600,"text-anchor":"middle"},["계산 C","Compute C"]);
+    p.el("rect",{x:790,y:457,width:250,height:90,rx:12,fill:C.tealFill,stroke:C.teal,"stroke-width":1.5});
+    p.el('text',{x:915,y:511,fill:C.teal,"font-size":(locale==='ko'?27:25),"font-weight":600,"text-anchor":"middle"},["계산 B","Compute B"]);
+    p.el("path",{d:"M1040,558 V584",fill:"none",stroke:C.teal,"stroke-width":2,"stroke-dasharray":"7 7"});
+    p.el('text',{x:1040,y:616,fill:C.teal,"font-size":24,"font-weight":600,"text-anchor":"middle"},["B·C 완료","B and C complete"]);
+    p.el('text',{x:48,y:689,fill:C.ink,"font-size":(locale==='ko'?28:27),"font-weight":700,"text-anchor":"start"},["통신과 독립 계산을 다른 스트림에 배치","Communication and independent work in separate streams"]);
+    p.el('text',{x:48,y:729,fill:C.muted,"font-size":23,"font-weight":400,"text-anchor":"start"},["GPU 1의 통신 스트림은 수신 뒤에 이벤트 E를 기록합니다.","GPU 1's communication stream records event E after the receive."]);
+    p.el("path",{d:"M250,778 H1142",fill:"none",stroke:C.muted,"stroke-width":2,"marker-end":markerUrl(C.muted)});
+    p.el('text',{x:1148,y:763,fill:C.muted,"font-size":21,"font-weight":400,"text-anchor":"end"},["시간 →","Time →"]);
+    p.el('text',{x:48,y:858,fill:C.ink,"font-size":27,"font-weight":700,"text-anchor":"start"},"GPU 1");
+    p.el('text',{x:48,y:894,fill:C.muted,"font-size":23,"font-weight":400,"text-anchor":"start"},["통신 스트림","Comm. stream"]);
+    p.el("rect",{x:250,y:822,width:350,height:88,rx:12,fill:C.indigoFill,stroke:C.indigo,"stroke-width":1.5});
+    p.el('text',{x:425,y:875,fill:C.indigo,"font-size":28,"font-weight":600,"text-anchor":"middle"},["수신","Receive"]);
+    p.el("path",{d:"M600,910 V933",fill:"none",stroke:C.indigo,"stroke-width":2});
+    p.el("circle",{cx:600,cy:943,r:8,fill:C.orange});
+    p.el('text',{x:629,y:952,fill:C.orange,"font-size":25,"font-weight":600,"text-anchor":"start"},["이벤트 E 완료","Event E completes"]);
+    p.el("path",{d:"M600,956 V1001",fill:"none",stroke:C.orange,"stroke-width":2.5,"marker-end":markerUrl(C.orange)});
+    p.el('text',{x:48,y:1059,fill:C.ink,"font-size":27,"font-weight":700,"text-anchor":"start"},"GPU 1");
+    p.el('text',{x:48,y:1095,fill:C.muted,"font-size":23,"font-weight":400,"text-anchor":"start"},["계산 스트림","Compute stream"]);
+    p.el("rect",{x:250,y:1016,width:190,height:90,rx:12,fill:C.purpleFill,stroke:C.purple,"stroke-width":1.5});
+    p.el('text',{x:345,y:1070,fill:C.purple,"font-size":27,"font-weight":600,"text-anchor":"middle"},["계산 C","Compute C"]);
+    p.el("rect",{x:440,y:1016,width:160,height:90,rx:12,fill:C.orangeFill,stroke:C.orange,"stroke-width":1.5});
+    p.el('text',{x:520,y:1055,fill:C.orange,"font-size":24,"font-weight":600,"text-anchor":"middle"},["이벤트 E","Event E"]);
+    p.el('text',{x:520,y:1090,fill:C.orange,"font-size":22,"font-weight":400,"text-anchor":"middle"},["완료 대기","Wait to finish"]);
+    p.el("rect",{x:600,y:1016,width:250,height:90,rx:12,fill:C.tealFill,stroke:C.teal,"stroke-width":1.5});
+    p.el('text',{x:725,y:1070,fill:C.teal,"font-size":(locale==='ko'?27:25),"font-weight":600,"text-anchor":"middle"},["계산 B","Compute B"]);
+    p.el("path",{d:"M850,1117 V1144",fill:"none",stroke:C.teal,"stroke-width":2,"stroke-dasharray":"7 7"});
+    p.el('text',{x:850,y:1176,fill:C.teal,"font-size":24,"font-weight":600,"text-anchor":"middle"},["B·C 완료","B and C complete"]);
+    p.el("rect",{x:48,y:1220,width:1104,height:82,rx:12,fill:C.grayFill,stroke:C.line,"stroke-width":1.5});
+    p.el('text',{x:600,y:1265,fill:C.ink,"font-size":27,"font-weight":600,"text-anchor":"middle"},["B는 수신 완료와 C 완료 뒤에 실행됩니다.","B executes after both the receive and C complete."]);
+    return [p];
+  },
+} satisfies FigureSpec;
